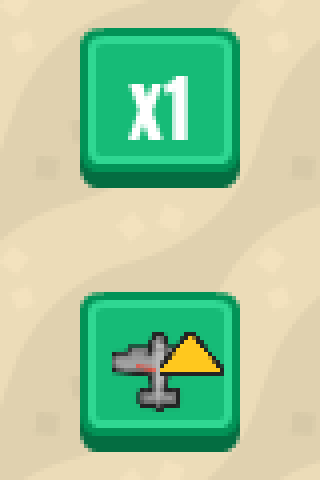
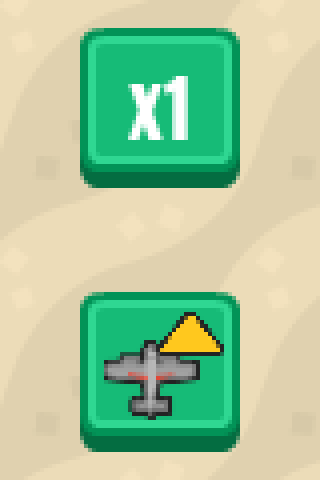
Put the upgrade arrow in the top right corner, plane down and left

Changed region(s): [[0.3125, 0.625, 0.7188, 0.875]]

diff --git a/docs/devlog/2026-11-04-planes-icon.md b/docs/devlog/2026-11-04-planes-icon.md
@@ -49,8 +49,10 @@ lower left and the arrow in the upper right. On 2026-11-04 the owner decided to 
 the middle of the image and let the arrow overlap it
 ([#141](https://github.com/vectorviolet/chokepoint/issues/141)). Claude recomposed it from the same
 two Kenney sprites at the same display size (48 px in the 60 px button): the plane (92 px wide,
-dark outline) is centered on the 128 px canvas, and a smaller yellow arrow (58 px wide) sits at its
-upper right, overlapping the edge of the right wing and clear of the nose, drawn on top.
+dark outline) sits 8 px left of and 8 px below the 128 px canvas center, and a smaller yellow arrow
+(58 px wide) sits in the top right corner, above the plane's upper right and just touching its right
+wing, clear of the nose, drawn on top. Moving the arrow only a few pixels was not enough: it read as
+part of the wing, so it went to the corner and the plane moved down and left to keep the nose clear.
 
 <table>
 <tr>
